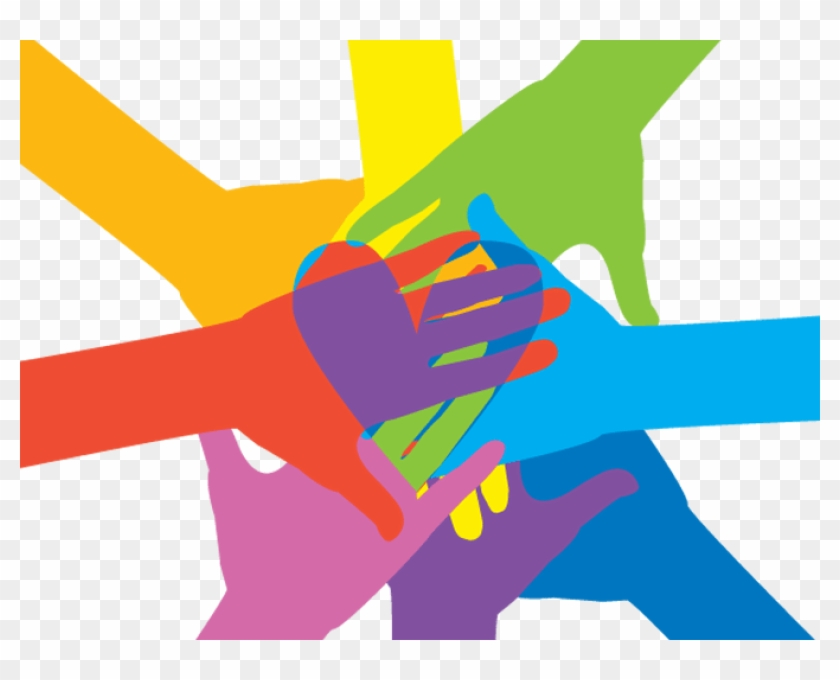
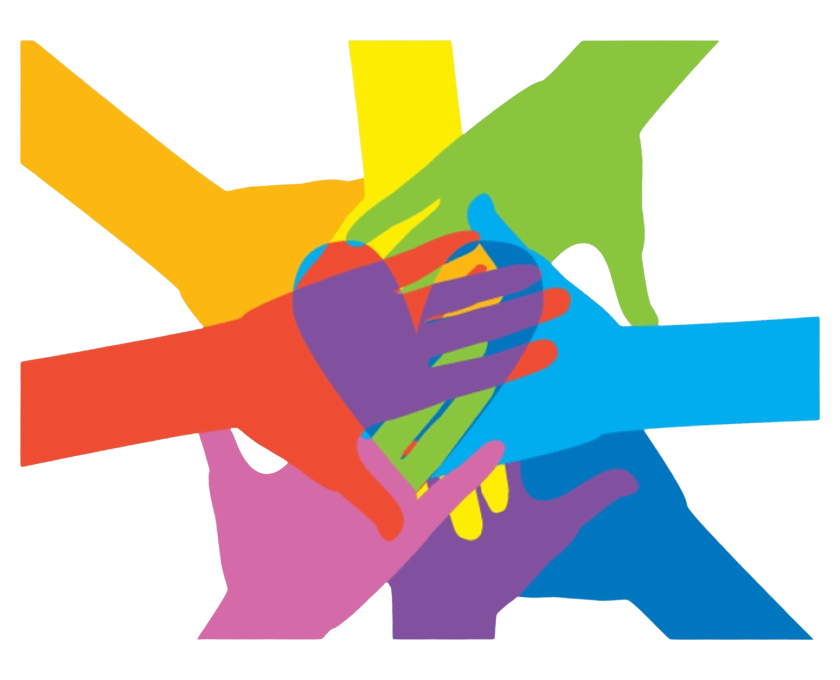
hopefully finished involvement

diff --git a/involvement.html b/involvement.html
@@ -47,10 +47,40 @@
     <img src="imgs/volunteer.png" alt="Volunteer Icon">
 </div>
 <div class ="involve-outer-two">
-    <img src ="imgs/hands.jpg" alt="Hands Icon">
+    <img src ="imgs/hands.png" alt="Hands Icon">
     <div class="involve-words-two">
         <p>
-           <strong> Connect us with your local communities:</strong> We are eager to collaborate with congregations, schools, libraries and other community based organizations to share our books, puppet shows and other programming. If you think your group would benefit from “Stand Up!”, please email us. 
+           <strong> Connect us with your local communities:</strong></p>
+           <p>
+           We are eager to collaborate with congregations, schools, libraries and other community based organizations to share our books, puppet shows and other programming. If you think your group would benefit from “Stand Up!”, please email us. 
         </p>
     </div>
 </div>
+<div class = "invole-outer-three"></div>
+    <div class="involve-words-three">
+    <div class = "involve-header">
+      <div class ="rainbow-text">
+        <span>W</span><span>e </span><span>A</span><span>c</span><span>c</span><span>e</span><span>p</span><span>t </span>
+        <span>D</span><span>o</span><span>n</span><span>a</span><span>t</span><span>i</span><span>o</span><span>n</span><span>s!</span>
+      </div>
+    </div>
+    <p>
+    Send donations to Temple Beth El Williamsburg (Our Fiscal Agent)</p>
+    <p><strong>Please earmark your donation for “Stand Up” </strong>
+    </p>
+    </div>
+    <img src="imgs/donate.png" alt="Donate Icon">
+</div>
+<footer class="footer"></footer>
+    <div class="footer-section">
+      <h1>Contact Us</h1>
+      <p> standup4everyone@gmail.com</p>
+    </div>
+    <div class = "footer-divider"></div>
+    <div class="footer-section">
+      <h1>Follow us</h1>
+      <p> Instagram: @standupforyourselfandothers</p>
+    </div>
+  </footer>
+  </div>
+</body>

diff --git a/style.css b/style.css
@@ -430,6 +430,33 @@ left
     align-items: center;
 }
 
+.involve-outer-three{
+    display: grid;
+    align-items: center;
+    justify-content: center;
+    grid-template-columns: 2fr 1fr;
+    background: linear-gradient(rgba(83, 255, 80, 0.813), rgba(153, 255, 94, 0.5));
+    height: auto;
+    width: 100%;
+}
+
+.involve-outer-three img{
+    width: 30vh;
+    height: auto;
+    margin-left: 30px;
+    object-fit: cover;
+    align-items: center;
+}
+
+.invole-words-three{
+    display: flex;
+    flex-direction: column;
+    align-items: center;
+    justify-content: center;
+    font-size: 1em;
+    font-family: 'Baloo 2', cursive;
+    margin-left: 40px;
+}
 
 
 
